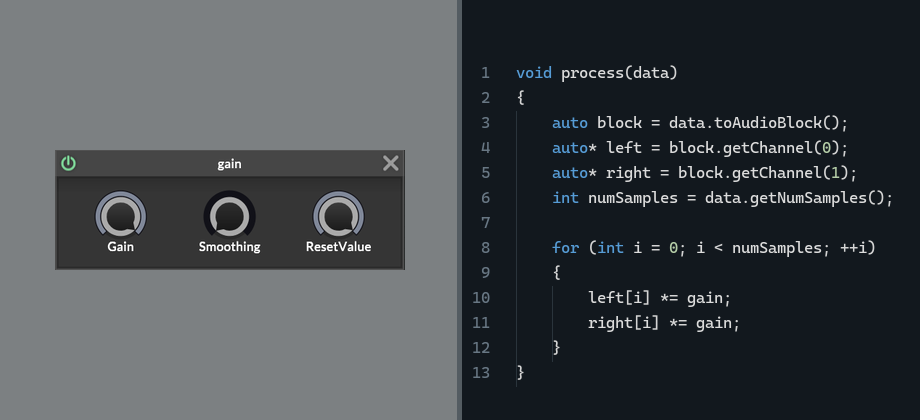
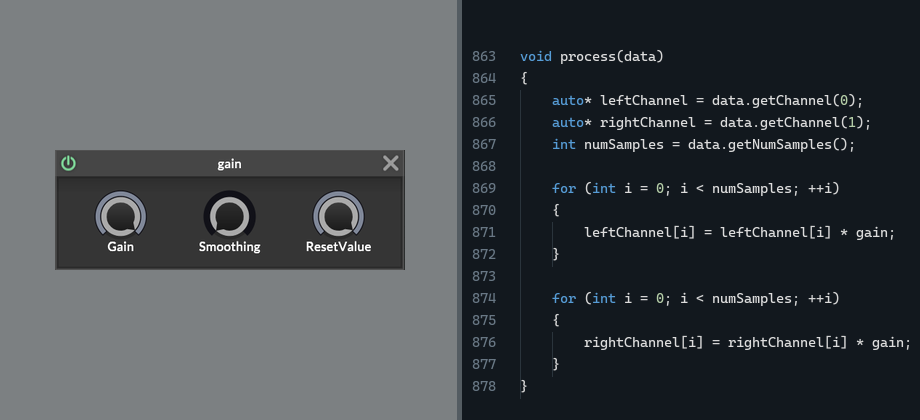
Refine HISE gain C++ snippet

diff --git a/scripts/render_hise_gain_node_cpp_code.py b/scripts/render_hise_gain_node_cpp_code.py
@@ -13,15 +13,18 @@ OUTPUT = ROOT / "articles" / "hise-dsp-buffer" / "renders" / "hise-gain-node-cpp
 
 CODE = """void process(data)
 {
-    auto block = data.toAudioBlock();
-    auto* left = block.getChannel(0);
-    auto* right = block.getChannel(1);
+    auto* leftChannel = data.getChannel(0);
+    auto* rightChannel = data.getChannel(1);
     int numSamples = data.getNumSamples();
 
     for (int i = 0; i < numSamples; ++i)
     {
-        left[i] *= gain;
-        right[i] *= gain;
+        leftChannel[i] = leftChannel[i] * gain;
+    }
+
+    for (int i = 0; i < numSamples; ++i)
+    {
+        rightChannel[i] = rightChannel[i] * gain;
     }
 }"""
 
@@ -62,12 +65,13 @@ def token_color(token: Token) -> tuple[int, int, int]:
 
 
 def draw_code(draw: ImageDraw.ImageDraw, x: int, y: int, code: str) -> None:
-    code_font = font(16)
-    line_font = font(16)
-    line_height = 25
-    gutter_width = 31
-    text_x = x + gutter_width + 13
+    code_font = font(14)
+    line_font = font(14)
+    line_height = 22
+    gutter_width = 38
+    text_x = x + gutter_width + 10
     char_width = draw.textlength(" ", font=code_font)
+    start_line = 863
 
     lines = code.splitlines()
     indent_guides: list[tuple[int, int, int]] = []
@@ -96,7 +100,7 @@ def draw_code(draw: ImageDraw.ImageDraw, x: int, y: int, code: str) -> None:
         baseline_y = y + (index - 1) * line_height
         draw.text(
             (x, baseline_y),
-            f"{index:>2}",
+            f"{start_line + index - 1:>3}",
             font=line_font,
             fill=(104, 119, 132),
             anchor=None,
@@ -132,7 +136,7 @@ def main() -> None:
     node_y = (height - node_height) // 2
     image.paste(node, (node_x, node_y))
 
-    draw_code(draw, divider_x + 12, 63, CODE)
+    draw_code(draw, divider_x + 12, 48, CODE)
 
     OUTPUT.parent.mkdir(parents=True, exist_ok=True)
     image.save(OUTPUT)